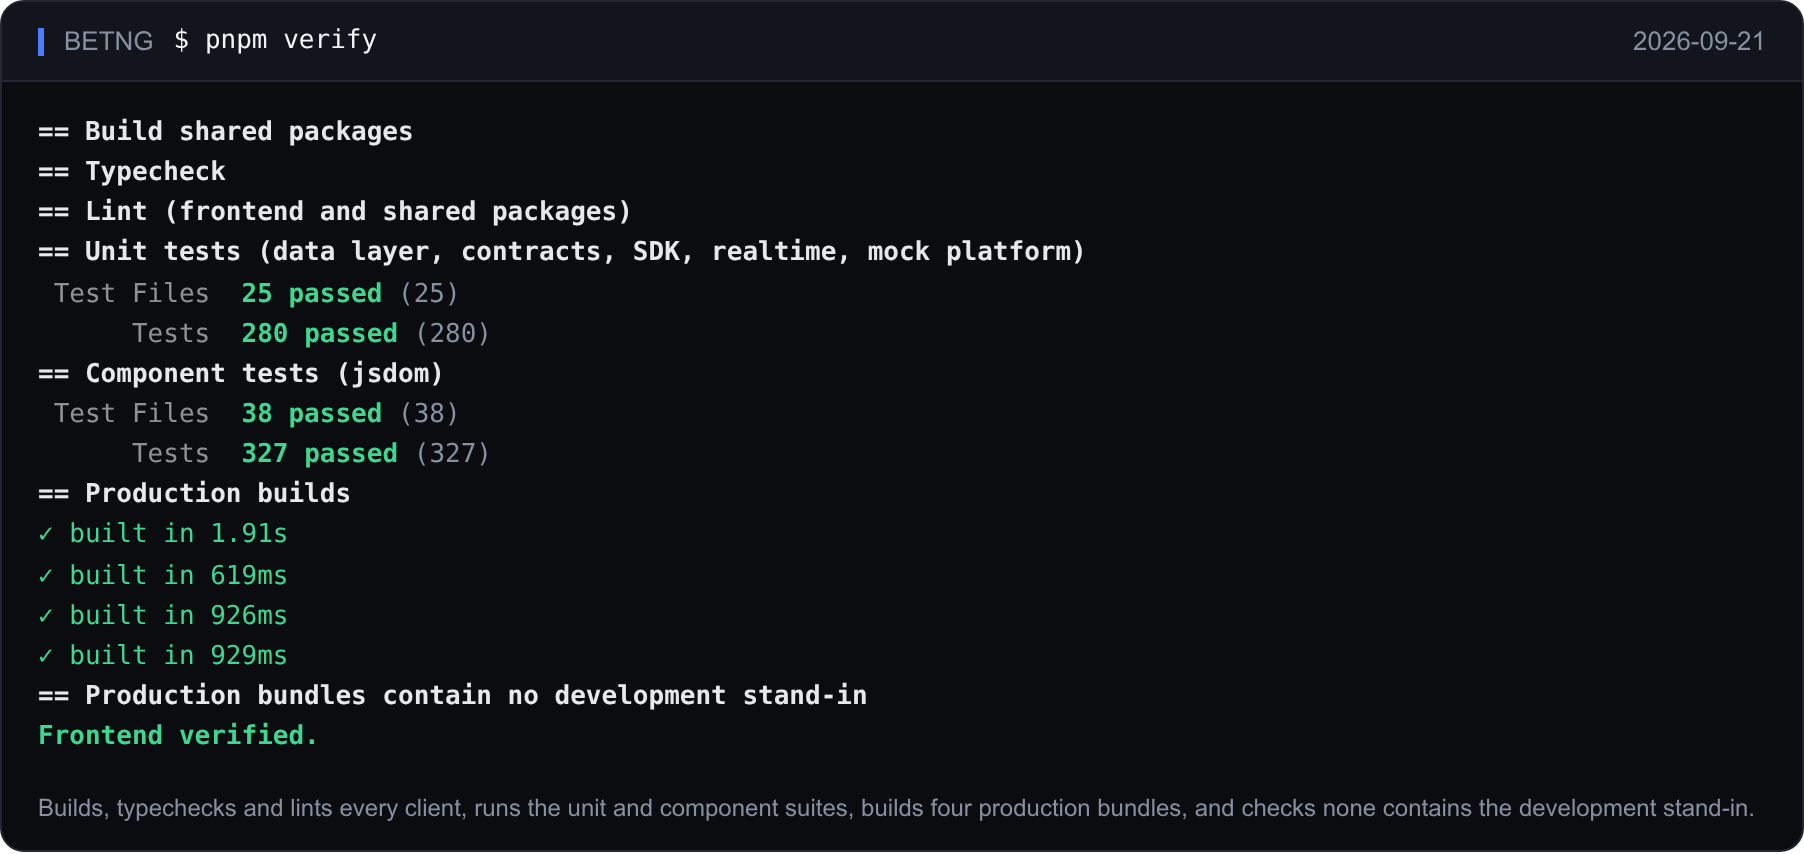
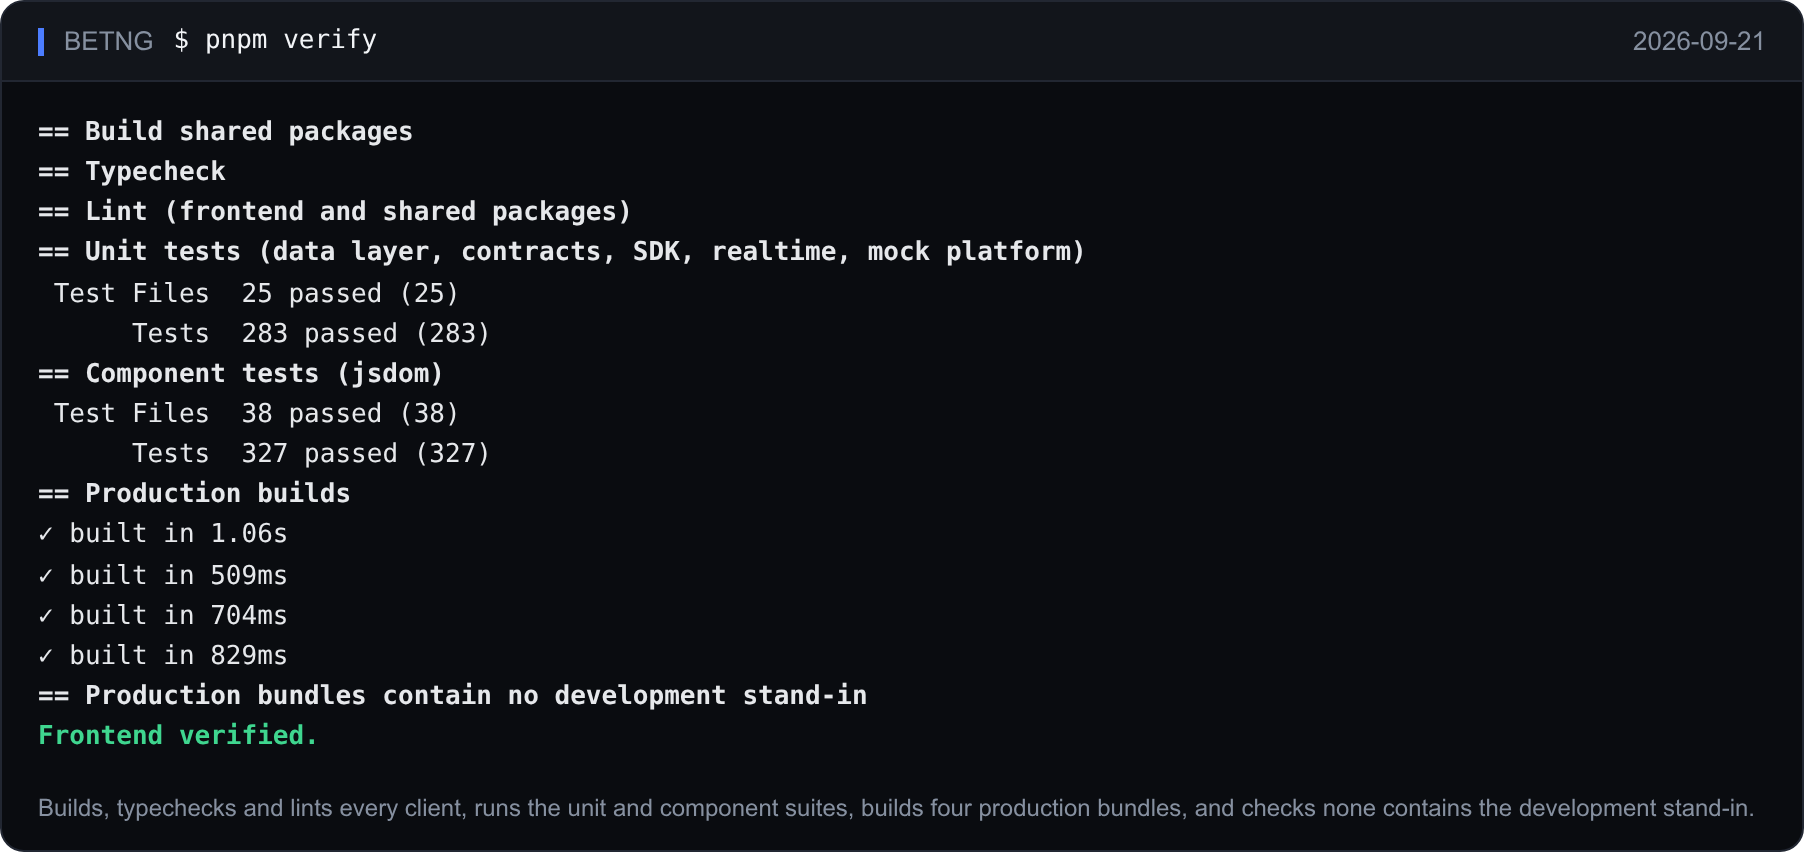
docs(docs): update test statistics and documentation assets
Update README and testing documentation with current test counts and
command references. Update frontend test badge SVG and visual proof
images to reflect recent changes.

diff --git a/README.md b/README.md
@@ -4,7 +4,7 @@
 </picture>
 
 <p align="center">
-  <img alt="Frontend tests: 641 passing" src="docs/images/badges/frontend-tests.svg">
+  <img alt="Frontend tests: 644 passing" src="docs/images/badges/frontend-tests.svg">
   <img alt="Platform tests: 1,578 passing" src="docs/images/badges/platform-tests.svg">
   <img alt="End-to-end scenario: 22 of 22 steps" src="docs/images/badges/scenario.svg">
   <img alt="TypeScript 7" src="docs/images/badges/typescript.svg">
@@ -39,7 +39,7 @@ It is a simulation that uses **play money only**. Nothing here is, or may be, co
 | **The platform decides** | Clock, phase, odds, market status, bet acceptance, payouts, balances, risk decisions and operator figures all come from the backend. The clients display them and never compute them. |
 | **Five clients, one model** | Web, mobile, TV, shop and admin all render the same canonical match, identified by one `match_id`. |
 | **Money is exact** | Integer kobo from the database to the pixel. No floating-point arithmetic touches an amount, and settlement pays on the odds stored at acceptance. |
-| **Built to be checked** | 2,219 automated tests across both halves, a 22-step end-to-end scenario against the real services, and a verification script that fails if a production bundle contains development code. |
+| **Built to be checked** | 2,222 automated tests across both halves, a 22-step end-to-end scenario against the real services, and a verification script that fails if a production bundle contains development code. |
 
 ## Screens
 
@@ -257,7 +257,7 @@ The numbers in the badges above come from these runs, recorded on 2026-09-21. Ev
 
 | Suite | Result |
 | --- | --- |
-| Frontend unit, contract and data layer (`pnpm test:unit`) | 280 tests in 25 files |
+| Frontend unit, contract and data layer (`vitest run --project unit packages`) | 283 tests in 25 files |
 | Components and apps in jsdom (`pnpm test:dom`) | 327 tests in 38 files |
 | Browser end to end (`pnpm test:e2e`) | 34 tests across desktop, mobile and TV |
 | TypeScript services (`vitest --project unit apps`) | 386 tests in 29 files |

diff --git a/docs/testing.md b/docs/testing.md
@@ -75,7 +75,7 @@ Recorded on 2026-09-21. Screenshots are the apps running against the real platfo
 
 | Suite | Result |
 | --- | --- |
-| `pnpm test:unit` | 280 tests in 25 files |
+| `vitest run --project unit packages` (inside `pnpm verify`) | 283 tests in 25 files |
 | `pnpm test:dom` | 327 tests in 38 files |
 | `pnpm test:e2e` | 34 tests (desktop, mobile, TV) |
 | TypeScript services | 386 tests in 29 files |
